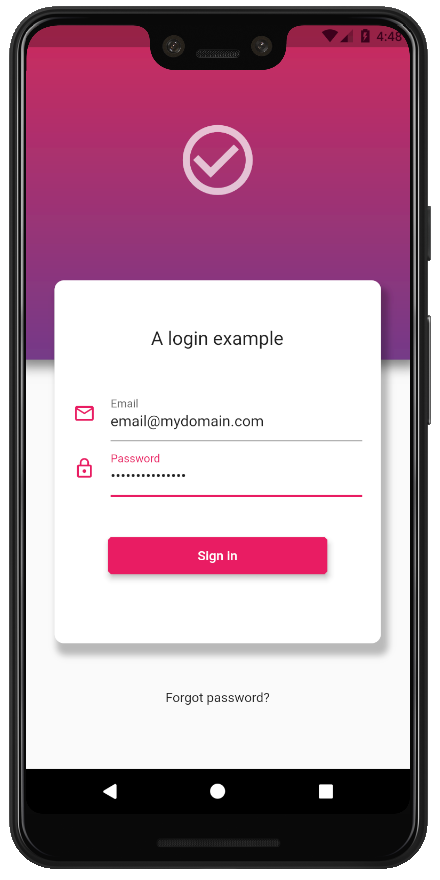
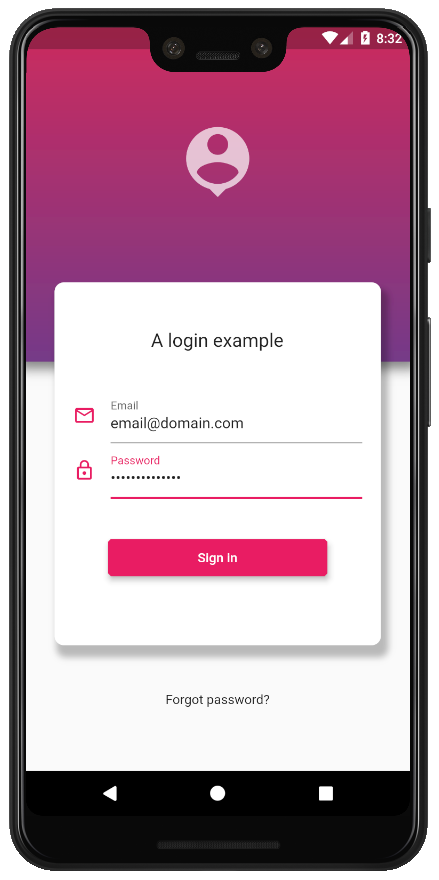
minor changes

diff --git a/lib/widgets/background_icon.dart b/lib/widgets/background_icon.dart
@@ -6,6 +6,11 @@ import 'package:flutter/material.dart';
 // Author: Miguel Fagundez
 //************************************************************
 class BackgroundIconWidget extends StatelessWidget {
+
+  //IconData icon = Icons.check_circle_outline;
+  //IconData icon = Icons.person_pin;
+  IconData icon = Icons.language;
+
   @override
   Widget build(BuildContext context) {
 
@@ -15,7 +20,7 @@ class BackgroundIconWidget extends StatelessWidget {
         padding: EdgeInsets.only(top: Constants.LOGIN_TOP_ICON_PADDING),
         child: Column(
           children: <Widget>[
-            Center(child: Icon(Icons.check_circle_outline, color: Colors.white70, size: Constants.LOGIN_TOP_ICON_SIZE,)),
+            Center(child: Icon(icon, color: Colors.white70, size: Constants.LOGIN_TOP_ICON_SIZE,)),
           ],
         ),
     );

diff --git a/lib/utils/basic_colors.dart b/lib/utils/basic_colors.dart
@@ -10,10 +10,10 @@ export 'package:flutter/material.dart';
 class MyBackgroundColors{
 
   //****************************************************
-  // Primary color for button and icons in login box
+  // Primary color for button, text and icons in login box
   //****************************************************
-  // static final MaterialColor myGeneralColor = Colors.pink;
-   static final MaterialColor myGeneralColor = Colors.lightGreen;
+   static final MaterialColor myGeneralColor = Colors.pink;
+  // static final MaterialColor myGeneralColor = Colors.lightGreen;
   // static final MaterialColor myGeneralColor = Colors.lightBlue;
 
    // List of colors for background

diff --git a/lib/widgets/background_color.dart b/lib/widgets/background_color.dart
@@ -28,7 +28,7 @@ class BackgroundColorLinearGradientWidget extends StatelessWidget {
         // Applying LinearGradient
         // Values from 0 to 6
         gradient: LinearGradient(
-            colors: MyBackgroundColors.getListColors(5),
+            colors: MyBackgroundColors.getListColors(1),
             begin: Alignment.topCenter,
             end: Alignment.bottomCenter
         ),
